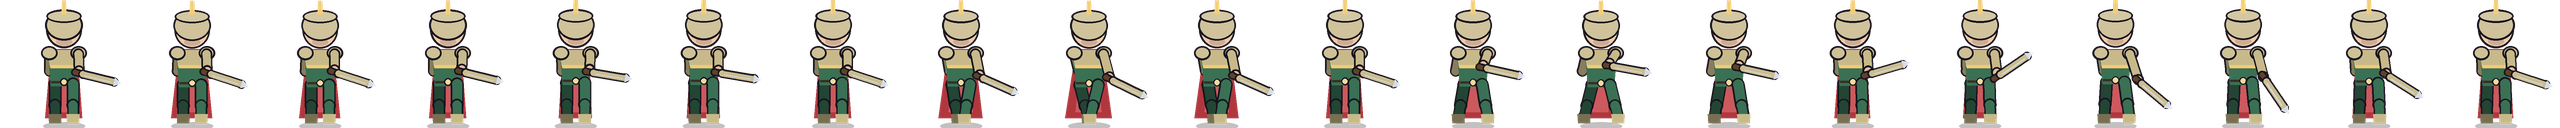
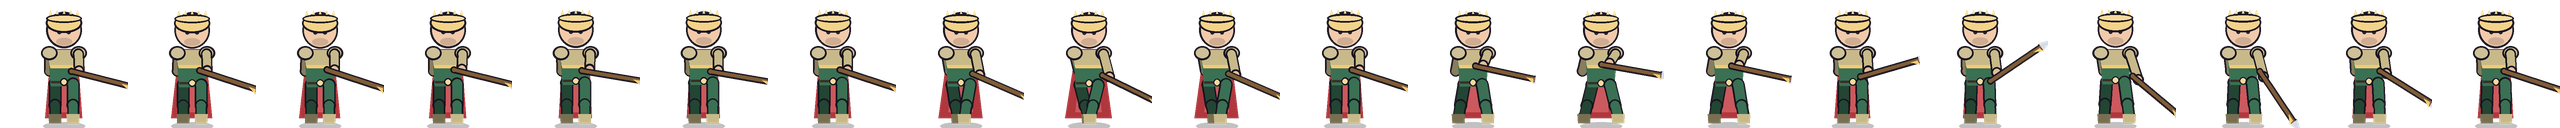
feat(v0.6.1): 兵种装备差异化 - 逐兵种武器/头盔/披风
- 新增 5 种武器形状（斧 / 锤 / 弩 / 匕首 / 三叉戟）与 3 种头盔（大盔 / 王冠 / 角盔）
- 加入逐兵种装备覆盖表，51 个兵种按 id 指定武器与头盔
- 关羽/赵云/圣殿骑士/龙骑士/深渊恶魔/死神 追加披风
- 同类原型（如所有人形兵）之间现在有明确的视觉区分

diff --git a/tools/gen_units.py b/tools/gen_units.py
@@ -54,6 +54,26 @@ class C:
         self.img.alpha_composite(lay)
 
 # ============ 外观规格 ============
+# 逐兵种装备覆盖：让同类原型之间也有明显差异
+WEAPON_BY_ID = {
+    "spearman": "spear", "pikeman": "spear", "guardian": "spear",
+    "zealot": "axe", "orc": "axe", "dwarf": "axe", "ogre": "mace",
+    "crossbowman": "crossbow", "ballista": "crossbow",
+    "shadow_assassin": "dagger", "wind_swordsman": "dagger",
+    "reaper": "scythe", "lich": "scythe", "necromancer": "staff",
+    "siren": "trident", "titan": "mace", "chaos_golem": "mace",
+    "guan_yu": "spear", "zhao_yun": "spear", "templar": "mace",
+    "sniper": "crossbow", "ranger": "bow", "elf_ranger": "bow",
+    "cannoneer": "crossbow", "knight": "spear", "dragon_knight": "spear",
+}
+HELM_BY_ID = {
+    "titan": "greathelm", "guardian": "greathelm", "shieldman": "greathelm",
+    "dwarf": "greathelm", "templar": "greathelm", "knight": "greathelm",
+    "orc": "horns", "ogre": "horns", "war_beast": "horns",
+    "guan_yu": "crown", "zhao_yun": "crown", "demon_lord": "horns",
+    "shadow_assassin": "hood", "wind_swordsman": "hood",
+}
+
 def spec_of(u):
     t = set(u.get("tags") or [])
     uid = u.get("id", "x")
@@ -118,6 +138,10 @@ def spec_of(u):
         s.update(kind="machine", weapon="bow", build=1.16)
     if "hero" in t and uid in ("guan_yu", "zhao_yun"):
         s.update(cloth=(58, 112, 84, 255), armor=(198, 182, 132, 255), accent=(240, 196, 96, 255))
+    if uid in WEAPON_BY_ID: s["weapon"] = WEAPON_BY_ID[uid]
+    if uid in HELM_BY_ID: s["helm"] = HELM_BY_ID[uid]
+    if uid in ("guan_yu", "zhao_yun", "templar", "dragon_knight", "demon_lord", "reaper"):
+        s["cape"] = s["cape"] or shade(s["cloth"], 0.82)
     hue = sum(ord(ch) for ch in uid)
     tw = ((hue % 9) - 4) * 0.045
     s["cloth"] = shade(s["cloth"], 1.0+tw)
@@ -165,6 +189,35 @@ def draw_weapon(c, s, hx, hy, ang, sc):
         ex, ey = hx+ux*L*1.25, hy+uy*L*1.25
         c.cap(hx-ux*9, hy-uy*9, ex, ey, 2.1, (76, 64, 80, 255))
         c.arc(ex, ey, 14*sc, ang+142, ang+338, shade(trim, 1.2), 3.0)
+    elif w == "axe":
+        ex, ey = hx+ux*L*0.95, hy+uy*L*0.95
+        c.cap(hx-ux*7, hy-uy*7, ex, ey, 2.2, (124, 90, 56, 255))
+        c.poly([(ex-uy*7, ey+ux*7), (ex+uy*7, ey-ux*7),
+                (ex+ux*12+uy*10, ey+uy*12-ux*10), (ex+ux*12-uy*10, ey+uy*12+ux*10)], shade(col, 1.12))
+        c.poly([(ex+ux*12+uy*10, ey+uy*12-ux*10), (ex+ux*12-uy*10, ey+uy*12+ux*10),
+                (ex+ux*15, ey+uy*15)], shade(trim, 1.2))
+    elif w == "mace":
+        ex, ey = hx+ux*L*0.9, hy+uy*L*0.9
+        c.cap(hx-ux*6, hy-uy*6, ex, ey, 2.2, (118, 86, 54, 255))
+        c.ell(ex, ey, 6.5*sc, 6.5*sc, shade(col, 1.14))
+        for k in range(6):
+            a2 = math.radians(ang) + k*math.tau/6
+            c.cap(ex, ey, ex+math.cos(a2)*8*sc, ey+math.sin(a2)*8*sc, 1.4, shade(trim, 1.1))
+    elif w == "crossbow":
+        cx, cy = hx+ux*11, hy+uy*11
+        c.cap(hx, hy, cx, cy, 2.0, (128, 92, 58, 255))
+        c.cap(cx-uy*10*sc, cy+ux*10*sc, cx+uy*10*sc, cy-ux*10*sc, 2.0, shade((150, 156, 168), 1.05))
+        c.cap(cx-ux*4, cy-uy*4, cx+ux*8, cy+uy*8, 1.3, (236, 232, 226, 255))
+    elif w == "dagger":
+        ex, ey = hx+ux*15*sc, hy+uy*15*sc
+        c.cap(hx-ux*3, hy-uy*3, hx+ux*4, hy+uy*4, 2.0, (96, 66, 40, 255))
+        c.poly([(ex+ux*6, ey+uy*6), (ex-uy*3.2, ey+ux*3.2), (ex+uy*3.2, ey-ux*3.2)], shade(trim, 1.18))
+    elif w == "trident":
+        ex, ey = hx+ux*L*1.4, hy+uy*L*1.4
+        c.cap(hx-ux*9, hy-uy*9, ex, ey, 1.9, (120, 88, 56, 255))
+        for off in (-6.5, 0, 6.5):
+            px, py = ex-uy*off*sc, ey+ux*off*sc
+            c.cap(px, py, px+ux*9*sc, py+uy*9*sc, 1.5, shade(trim, 1.14))
     elif w == "claw":
         for k in (-19, 0, 19):
             c.cap(hx, hy, hx+math.cos(math.radians(ang+k))*14*sc,
@@ -289,6 +342,18 @@ def draw_char(c, s, p):
         c.ell(cx, eyy, hr*0.58, hr*0.22, (24, 26, 34, 255), None)
         c.ell(cx-eo, eyy, hr*0.14, hr*0.14, ec, None)
         c.ell(cx+eo, eyy, hr*0.14, hr*0.14, ec, None)
+    elif hh == "greathelm":
+        c.poly([(cx-hr*1.06, hy+hr*0.3), (cx-hr*1.0, hy-hr*0.86), (cx, hy-hr*1.14),
+                (cx+hr*1.0, hy-hr*0.86), (cx+hr*1.06, hy+hr*0.3)], shade(s["armor"], 1.14))
+        c.ell(cx, eyy-1, hr*0.5, hr*0.16, (24, 26, 34, 255), None)
+        for k in (-1, 0, 1):
+            c.line([(cx+k*hr*0.3, hy-hr*0.5), (cx+k*hr*0.3, hy+hr*0.1)], shade(s["accent"], 1.0), 1.0)
+    elif hh == "crown":
+        c.ell(cx, hy-hr*0.44, hr*1.02, hr*0.5, shade(s["accent"], 1.16))
+        for k in (-2, -1, 0, 1, 2):
+            px = cx + k*hr*0.42
+            c.poly([(px-hr*0.16, hy-hr*0.72), (px+hr*0.16, hy-hr*0.72), (px, hy-hr*1.24)], shade(s["accent"], 1.24))
+        c.ell(cx, hy-hr*0.72, hr*1.0, hr*0.16, shade(s["accent"], 1.30))
     elif hh == "horns":
         c.ell(cx, hy-hr*0.42, hr*1.04, hr*0.72, shade(s["armor"], 1.1))
         c.poly([(cx-hr*0.6, hy-hr*0.8), (cx-hr*0.22, hy-hr*0.9), (cx-hr*0.85, hy-hr*1.7)], (244, 236, 218, 255))

diff --git a/README.md b/README.md
@@ -4,7 +4,7 @@
 兵种自动前进、索敌、战斗。战后按双方存活单位的**杀戮值差值**对敌方城邦造成伤害，
 先把对方城邦生命打光的一方获胜。
 
-[![Release](https://img.shields.io/badge/release-v0.6.0-blue)](https://github.com/Lwangt/milaqi/releases/latest)
+[![Release](https://img.shields.io/badge/release-v0.6.1-blue)](https://github.com/Lwangt/milaqi/releases/latest)
 
 | | |
 |---|---|
@@ -123,6 +123,12 @@ dotnet run -- diag greed undead_swarm   # 单局逐回合诊断
 | 自检 | selftest 全过 + regress 6 项全过 |
 
 ## 更新记录
+
+### v0.6.1 兵种装备差异化
+
+为 51 个兵种加入**逐兵种装备表**，同类原型之间也有明显区分：
+大盔 / 角盔 / 王冠 / 兜帽，斧 / 锤 / 弩 / 匕首 / 镰刀 / 三叉戟 / 长矛 / 法杖，
+以及英雄与骑士的披风。
 
 ### v0.6.0 流派平衡大修（极差 86.8% → 7.1%）
 
